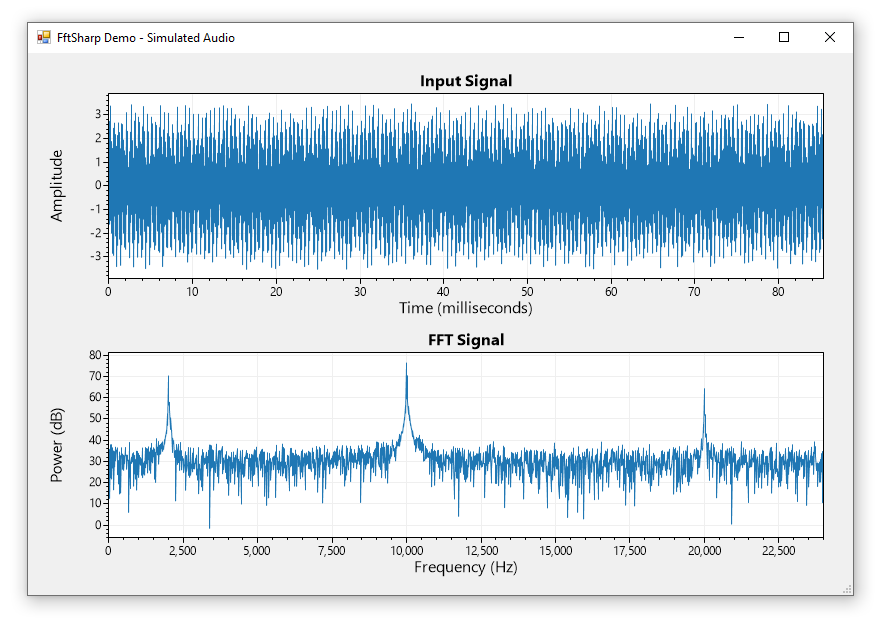
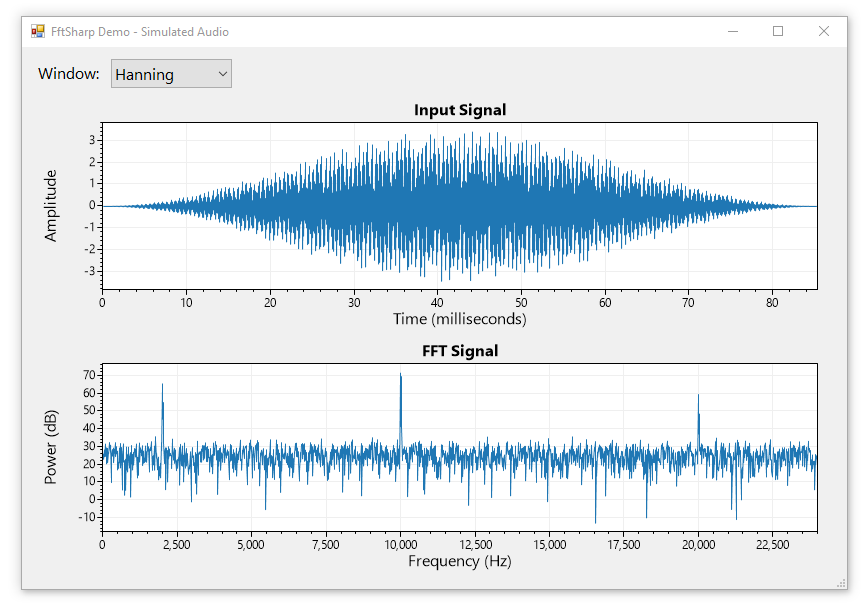
add window options to demo application

Changed region(s): [[0.0, 0.0297, 0.9988, 0.9786]]

diff --git a/src/FftSharp.Demo/FormAudio.Designer.cs b/src/FftSharp.Demo/FormAudio.Designer.cs
@@ -32,6 +32,8 @@
             this.tableLayoutPanel1 = new System.Windows.Forms.TableLayoutPanel();
             this.formsPlot1 = new ScottPlot.FormsPlot();
             this.formsPlot2 = new ScottPlot.FormsPlot();
+            this.label1 = new System.Windows.Forms.Label();
+            this.comboBox1 = new System.Windows.Forms.ComboBox();
             this.tableLayoutPanel1.SuspendLayout();
             this.SuspendLayout();
             // 
@@ -44,12 +46,12 @@
             this.tableLayoutPanel1.ColumnStyles.Add(new System.Windows.Forms.ColumnStyle(System.Windows.Forms.SizeType.Percent, 50F));
             this.tableLayoutPanel1.Controls.Add(this.formsPlot1, 0, 0);
             this.tableLayoutPanel1.Controls.Add(this.formsPlot2, 0, 1);
-            this.tableLayoutPanel1.Location = new System.Drawing.Point(12, 12);
+            this.tableLayoutPanel1.Location = new System.Drawing.Point(12, 47);
             this.tableLayoutPanel1.Name = "tableLayoutPanel1";
             this.tableLayoutPanel1.RowCount = 2;
             this.tableLayoutPanel1.RowStyles.Add(new System.Windows.Forms.RowStyle(System.Windows.Forms.SizeType.Percent, 50F));
             this.tableLayoutPanel1.RowStyles.Add(new System.Windows.Forms.RowStyle(System.Windows.Forms.SizeType.Percent, 50F));
-            this.tableLayoutPanel1.Size = new System.Drawing.Size(801, 518);
+            this.tableLayoutPanel1.Size = new System.Drawing.Size(801, 483);
             this.tableLayoutPanel1.TabIndex = 0;
             // 
             // formsPlot1
@@ -57,27 +59,58 @@
             this.formsPlot1.Dock = System.Windows.Forms.DockStyle.Fill;
             this.formsPlot1.Location = new System.Drawing.Point(3, 3);
             this.formsPlot1.Name = "formsPlot1";
-            this.formsPlot1.Size = new System.Drawing.Size(795, 253);
+            this.formsPlot1.Size = new System.Drawing.Size(795, 235);
             this.formsPlot1.TabIndex = 0;
             // 
             // formsPlot2
             // 
             this.formsPlot2.Dock = System.Windows.Forms.DockStyle.Fill;
-            this.formsPlot2.Location = new System.Drawing.Point(3, 262);
+            this.formsPlot2.Location = new System.Drawing.Point(3, 244);
             this.formsPlot2.Name = "formsPlot2";
-            this.formsPlot2.Size = new System.Drawing.Size(795, 253);
+            this.formsPlot2.Size = new System.Drawing.Size(795, 236);
             this.formsPlot2.TabIndex = 1;
+            // 
+            // label1
+            // 
+            this.label1.AutoSize = true;
+            this.label1.Font = new System.Drawing.Font("Segoe UI", 12F, System.Drawing.FontStyle.Regular, System.Drawing.GraphicsUnit.Point, ((byte)(0)));
+            this.label1.Location = new System.Drawing.Point(12, 15);
+            this.label1.Name = "label1";
+            this.label1.Size = new System.Drawing.Size(71, 21);
+            this.label1.TabIndex = 1;
+            this.label1.Text = "Window:";
+            // 
+            // comboBox1
+            // 
+            this.comboBox1.DropDownStyle = System.Windows.Forms.ComboBoxStyle.DropDownList;
+            this.comboBox1.Font = new System.Drawing.Font("Segoe UI", 12F, System.Drawing.FontStyle.Regular, System.Drawing.GraphicsUnit.Point, ((byte)(0)));
+            this.comboBox1.FormattingEnabled = true;
+            this.comboBox1.Items.AddRange(new object[] {
+            "None",
+            "Hanning",
+            "Hamming",
+            "Bartlett",
+            "Blackman",
+            "FlatTop"});
+            this.comboBox1.Location = new System.Drawing.Point(89, 12);
+            this.comboBox1.Name = "comboBox1";
+            this.comboBox1.Size = new System.Drawing.Size(121, 29);
+            this.comboBox1.TabIndex = 2;
+            this.comboBox1.SelectedIndexChanged += new System.EventHandler(this.comboBox1_SelectedIndexChanged);
             // 
             // FormAudio
             // 
             this.AutoScaleDimensions = new System.Drawing.SizeF(6F, 13F);
             this.AutoScaleMode = System.Windows.Forms.AutoScaleMode.Font;
             this.ClientSize = new System.Drawing.Size(825, 542);
+            this.Controls.Add(this.comboBox1);
+            this.Controls.Add(this.label1);
             this.Controls.Add(this.tableLayoutPanel1);
             this.Name = "FormAudio";
             this.Text = "FftSharp Demo - Simulated Audio";
             this.tableLayoutPanel1.ResumeLayout(false);
             this.ResumeLayout(false);
+            this.PerformLayout();
 
         }
 
@@ -86,5 +119,7 @@
         private System.Windows.Forms.TableLayoutPanel tableLayoutPanel1;
         private ScottPlot.FormsPlot formsPlot1;
         private ScottPlot.FormsPlot formsPlot2;
+        private System.Windows.Forms.Label label1;
+        private System.Windows.Forms.ComboBox comboBox1;
     }
 }

diff --git a/src/FftSharp.Demo/FormAudio.cs b/src/FftSharp.Demo/FormAudio.cs
@@ -16,6 +16,13 @@ namespace FftSharp.Demo
         public FormAudio()
         {
             InitializeComponent();
+            formsPlot1.Configure(middleClickMarginX: 0);
+            formsPlot2.Configure(middleClickMarginX: 0);
+            comboBox1.SelectedIndex = 0;
+        }
+
+        private void comboBox1_SelectedIndexChanged(object sender, EventArgs e)
+        {
             UpdateFFT();
         }
 
@@ -27,18 +34,32 @@ namespace FftSharp.Demo
             double fftPeriod = (double)fftSize / sampleRate;
 
             // create noisy signal containing sine waves
-            double[] data = new double[fftSize];
-            SampleData.AddWhiteNoise(data, 1);
-            SampleData.AddSin(data, sampleRate, 2_000, 1);
-            SampleData.AddSin(data, sampleRate, 10_000, 2);
-            SampleData.AddSin(data, sampleRate, 20_000, .5);
+            double[] audio = new double[fftSize];
+            SampleData.AddWhiteNoise(audio, 1);
+            SampleData.AddSin(audio, sampleRate, 2_000, 1);
+            SampleData.AddSin(audio, sampleRate, 10_000, 2);
+            SampleData.AddSin(audio, sampleRate, 20_000, .5);
+
+            double[] window = null;
+            if (comboBox1.Text == "Hanning")
+                window = Window.Hanning(audio.Length);
+            else if (comboBox1.Text == "Hamming")
+                window = Window.Hamming(audio.Length);
+            else if (comboBox1.Text == "Bartlett")
+                window = Window.Bartlett(audio.Length);
+            else if (comboBox1.Text == "Blackman")
+                window = Window.Blackman(audio.Length);
+            else if (comboBox1.Text == "FlatTop")
+                window = Window.FlatTop(audio.Length);
+            if (window != null)
+                Window.ApplyInPlace(window, audio);
 
             // perform the FFT
-            double[] fftPower = FftSharp.Transform.FFTpower(data);
+            double[] fftPower = FftSharp.Transform.FFTpower(audio);
 
             // plot the signal
             formsPlot1.plt.Clear();
-            formsPlot1.plt.PlotSignal(data, sampleRate / 1e3);
+            formsPlot1.plt.PlotSignal(audio, sampleRate / 1e3);
             formsPlot1.plt.Title("Input Signal");
             formsPlot1.plt.YLabel("Amplitude");
             formsPlot1.plt.XLabel("Time (milliseconds)");
